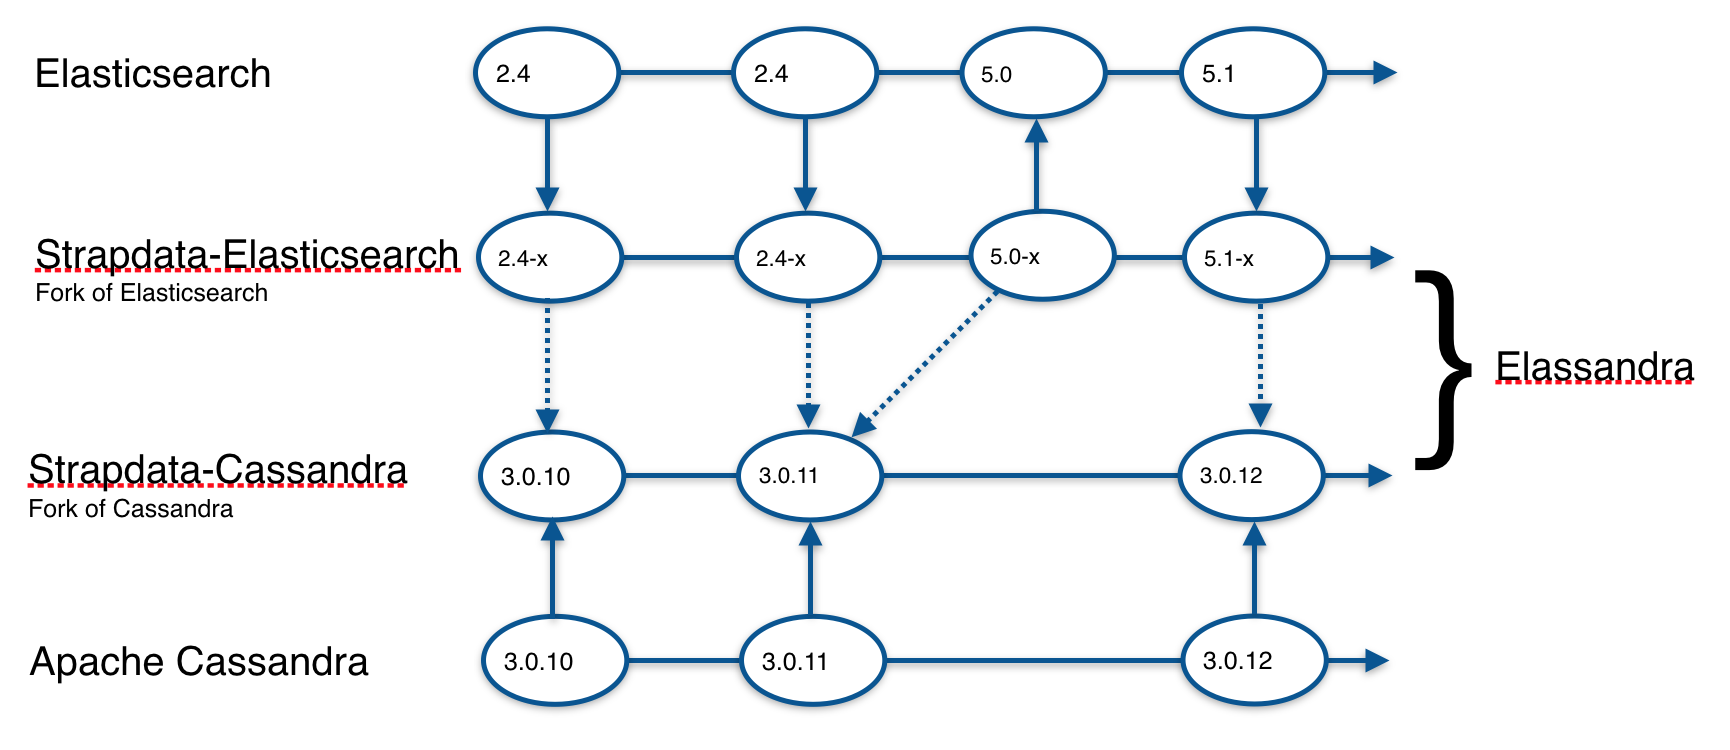
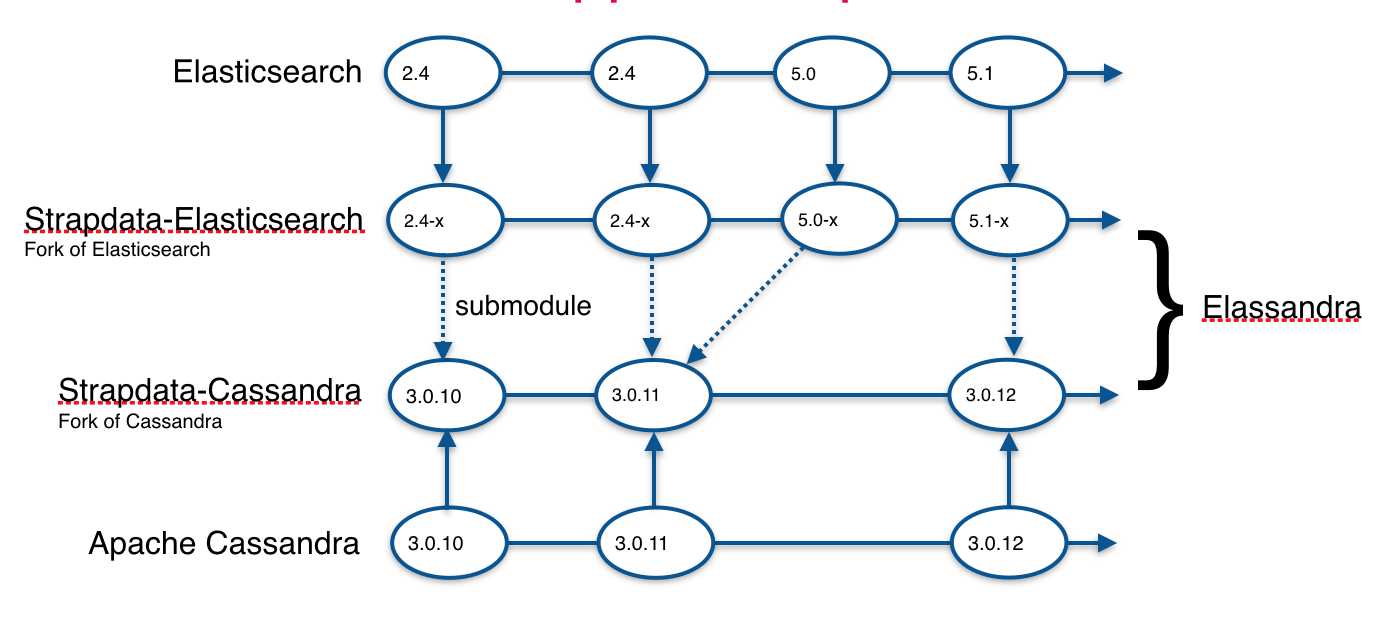
New source organisation

diff --git a/README.md b/README.md
@@ -12,7 +12,9 @@ Elassandra supports Cassandra vnodes and scale horizontally by adding more nodes
 
 Project documentation is available at [doc.elassandra.io](http://doc.elassandra.io).
 
-* **2017-04-18 Release 2.4.2-13 Project refactoring (see How to contribute) and search performance improvement**
+* **2017-04-18 Release 2.4.2-13**
+   * Project refactoring with Cassandra code as a git submodule (see How to contribute below)
+   * Search performance improvement with a new token_ranges_bitset_cache (see [Optimized search requests](http://doc.elassandra.io/en/latest/operations.html#optimized-search-routing) in the documentation)
 * **2017-02-25 Release 2.4.2-9 Significant write performance improvement**
 * **2017-01-15 Release 2.4.2-4 Upgrade to Cassandra 3.0.10**
 * **2016-12-25 Release 2.4.2-2 Upgrade to Elasticsearch 2.4.2 + pass 3000 unit tests from Elasticsearch**
@@ -68,34 +70,37 @@ For Elasticsearch users, elassandra provides useful features :
 # How to contribute
 
 Elassandra is based on a fork of Elasticsearch acting as a plugin for Apache Cassandra :
-* The *ElassandraDaemon* class override the *CassandraDaemon* class in order to manage Elasticsearch internal services.
-* The *ElasticSecondaryIndex* class implements the Cassandra *Index* interface to write in Elasticsearch indices.
+* The **ElassandraDaemon** class override the **CassandraDaemon** class in order to manage Elasticsearch internal services.
+* The **ElasticSecondaryIndex** class implements the Cassandra **Index** interface to write in Elasticsearch indices.
 
 ![Elassandra class inheritance](/docs/elassandra/source/images/elassandra-inheritance.png)
 
 To achieve these operations, both Cassandra and Elasticsearch requires some modifications located in two forks:
-* ![Strapdata-Cassandra](https://github.com/strapdata/cassandra), a fork of ![Apache Cassandra](http://git-wip-us.apache.org/repos/asf/cassandra.git) including slight modifications :
- * Adds function hooks to start Elasticsearch (![CASSANDRA-13270](https://issues.apache.org/jira/browse/CASSANDRA-13270)).
- * Adds support for generic CQL functions (![CASSANDRA-13267](https://issues.apache.org/jira/browse/CASSANDRA-13267)).
- * Adds snapshot support for custom secondary indices (![CASSANDRA-13269](https://issues.apache.org/jira/browse/CASSANDRA-13269)).
- * Provides a multi-threaded **nodetool rebuild_index** command ([CASSANDRA-12837](https://issues.apache.org/jira/browse/CASSANDRA-12837)).
- * Reduce lock contention on instance factories ([CASSANDRA-13271](https://issues.apache.org/jira/browse/CASSANDRA-13271))
- * Fix implicit default *java.util.Locale* in String function calls (byte-code correction within an Ant task based on this [javassit-maven](https://github.com/strapdata/maven-javassist) project).
- * Minor upgrade some java libraries.
- * Don't overwrite the DefaultUncaughtExceptionHandler when testing
-* Elassandra, a fork of Elasticsearch (aka Strapdata-Elasticsearch, branch *${version}-strapdata*) including modifications in :
- * Cluster state management ([org.elassandra.cluster.InternalCassandraClusterService](https://github.com/strapdata/elassandra/blob/master/core/src/main/java/org/elassandra/cluster/InternalCassandraClusterService.java) override a modified [org.elasticsearch.cluster.service.InternalClusterService](https://github.com/strapdata/elassandra/blob/master/core/src/main/java/org/elasticsearch/cluster/service/InternalClusterService.java))
- * Gateway to retrieve Elasticsearch metadata on startup (see [org.elassandra.gateway](https://github.com/strapdata/elassandra/blob/master/core/src/main/java/org/elassandra/gateway/CassandraGatewayService.java))
- * Discovery to manage alive cluster members (see [org.elassandra.discovery.CassandraDiscovery](https://github.com/strapdata/elassandra/blob/master/core/src/main/java/org/elassandra/discovery/CassandraDiscovery.java))
- * Fields mappers to manage CQL mapping and Lucene field factory (see [org.elasticsearch.index.mapper.core](https://github.com/strapdata/elassandra/tree/master/core/src/main/java/org/elasticsearch/index/mapper/core))
- * Search requests routing (see [org.elassandra.cluster.routing](https://github.com/strapdata/elassandra/tree/master/core/src/main/java/org/elassandra/cluster/routing))
+
+[Strapdata-Cassandra](https://github.com/strapdata/cassandra), a fork of [Apache Cassandra](http://git-wip-us.apache.org/repos/asf/cassandra.git) including slight modifications :
+* Adds function hooks to start Elasticsearch ([CASSANDRA-13270](https://issues.apache.org/jira/browse/CASSANDRA-13270)).
+* Adds support for generic CQL functions ([CASSANDRA-13267](https://issues.apache.org/jira/browse/CASSANDRA-13267)).
+* Adds snapshot support for custom secondary indices ([CASSANDRA-13269](https://issues.apache.org/jira/browse/CASSANDRA-13269)).
+* Provides a multi-threaded **nodetool rebuild_index** command ([CASSANDRA-12837](https://issues.apache.org/jira/browse/CASSANDRA-12837)).
+* Reduce lock contention on instance factories ([CASSANDRA-13271](https://issues.apache.org/jira/browse/CASSANDRA-13271))
+* Fix implicit default **java.util.Locale** in String function calls (byte-code correction within an Ant task based on this [javassit-maven](https://github.com/strapdata/maven-javassist) project).
+* Minor upgrade some java libraries.
+* Don't overwrite the DefaultUncaughtExceptionHandler when testing
+
+Elassandra, a fork of Elasticsearch (aka Strapdata-Elasticsearch, branch *${version}-strapdata*) including modifications in :
+* Cluster state management ([org.elassandra.cluster.InternalCassandraClusterService](/core/src/main/java/org/elassandra/cluster/InternalCassandraClusterService.java) override a modified [org.elasticsearch.cluster.service.InternalClusterService](/core/src/main/java/org/elasticsearch/cluster/service/InternalClusterService.java))
+* Gateway to retrieve Elasticsearch metadata on startup (see [org.elassandra.gateway](/core/src/main/java/org/elassandra/gateway/CassandraGatewayService.java))
+* Discovery to manage alive cluster members (see [org.elassandra.discovery.CassandraDiscovery](/core/src/main/java/org/elassandra/discovery/CassandraDiscovery.java))
+* Fields mappers to manage CQL mapping and Lucene field factory (see [org.elasticsearch.index.mapper.core](/core/src/main/java/org/elasticsearch/index/mapper/core))
+* Search requests routing (see [org.elassandra.cluster.routing](/core/src/main/java/org/elassandra/cluster/routing))
 
 As shown below, forked Cassandra and Elasticsearch projects can change independently and changes can be rebased periodically into Strapdata-Cassandra or Elassandra (aka Strapdata-Elasticsearch).
 
 ![Elassandra developpement process](/docs/elassandra/source/images/elassandra-devprocess.png)
 
 Elassandra contains 2 references to the [strapdata-cassandra](https://github.com/strapdata/cassandra) :
-* The Elasticsearch *core/pom.xml* include a maven dependency on the strapdata-cassandra project :
+* The Elasticsearch **core/pom.xml** include a maven dependency on the strapdata-cassandra project :
+
         ```
         <dependency>
           <groupId>com.strapdata.cassandra</groupId>
@@ -103,7 +108,8 @@ Elassandra contains 2 references to the [strapdata-cassandra](https://github.com
           <version>3.0.x</version>
         </dependency>
         ```
-* In order to build the elassandra tarball and packages, the elassandra project includes a reference to the [strapdata-cassandra](https://github.com/strapdata/cassandra) as git submodule located in *core/cassandra*.
+        
+* In order to build the elassandra tarball and packages, the elassandra project includes a reference to the [strapdata-cassandra](https://github.com/strapdata/cassandra) as git submodule located in **core/cassandra**.
 
 Elassandra is an opensource project, contributors are welcome to rise issues or pull requests on both [strapdata-cassandra](https://github.com/strapdata/cassandra) or [elassandra](https://github.com/strapdata/elassandra) github repositories. 
 
@@ -115,7 +121,7 @@ When submitting an issue, please make sure that :
 * You're not in the case of a known Elassandra limitation, see http://doc.elassandra.io/en/latest/limitations.html.
 * Elassandra behavior is abnormally different from the standard Cassandra or Elasticsearch. For example, like Elasticsearch, Elassandra does not display default mappings unless requested, but this is the expected behavior.
 
-It is very helpful if you can provide a test case to reproduce the bug and the associated error logs or stacktrace. See your *conf/logback.xml* to increase logging level in the *logs/system.log* file, and run *nodetool setlogginglevel* to dynamically update your logging level.
+It is very helpful if you can provide a test case to reproduce the bug and the associated error logs or stacktrace. See your **conf/logback.xml** to increase logging level in the **logs/system.log** file, and run **nodetool setlogginglevel** to dynamically update your logging level.
 
 ## Feature requests
 
@@ -127,7 +133,7 @@ Contributors can clone repositories and follow guidelines from Elasticsearch and
 * [Contributing to the elasticsearch codebase](https://github.com/elastic/elasticsearch/blob/2.4/CONTRIBUTING.md#contributing-to-the-elasticsearch-codebase)
 * [Cassandra How To Contribute](https://wiki.apache.org/cassandra/HowToContribute)
 
-When cloning Elassandra, use a use **git clone --recurse-submodules https://github.com/strapdata/elassandra** to clone the strapdata-cassandra submodule and check that your are using the same strapdata-cassandra version in your *core/pom.xm* and in this submodule. Alternatively, this submodule can point to your own cassandra branch, assuming this branch include mandatory modifications to support Elassandra, see [strapdata-cassandra](https://github.com/strapdata/cassandra) for details.
+When cloning Elassandra, use **git clone --recurse-submodules https://github.com/strapdata/elassandra** to clone the strapdata-cassandra submodule and check that your are using the same strapdata-cassandra version in your *core/pom.xm* and in this submodule. Alternatively, this submodule can point to your own cassandra branch, assuming this branch include mandatory modifications to support Elassandra, see [strapdata-cassandra](https://github.com/strapdata/cassandra) for details.
 
 Elassandra documentation is based on [sphinx](http://www.sphinx-doc.org/en/stable/rest.html) and published on [readthedoc.org](https://readthedocs.org/). Source RestructuredText files are located at [Elassandra source documentation](https://github.com/strapdata/elassandra/tree/master/docs/elassandra). To build the documentation, just run **make html** from the *${project.dir}/docs/elassandra*.
 
